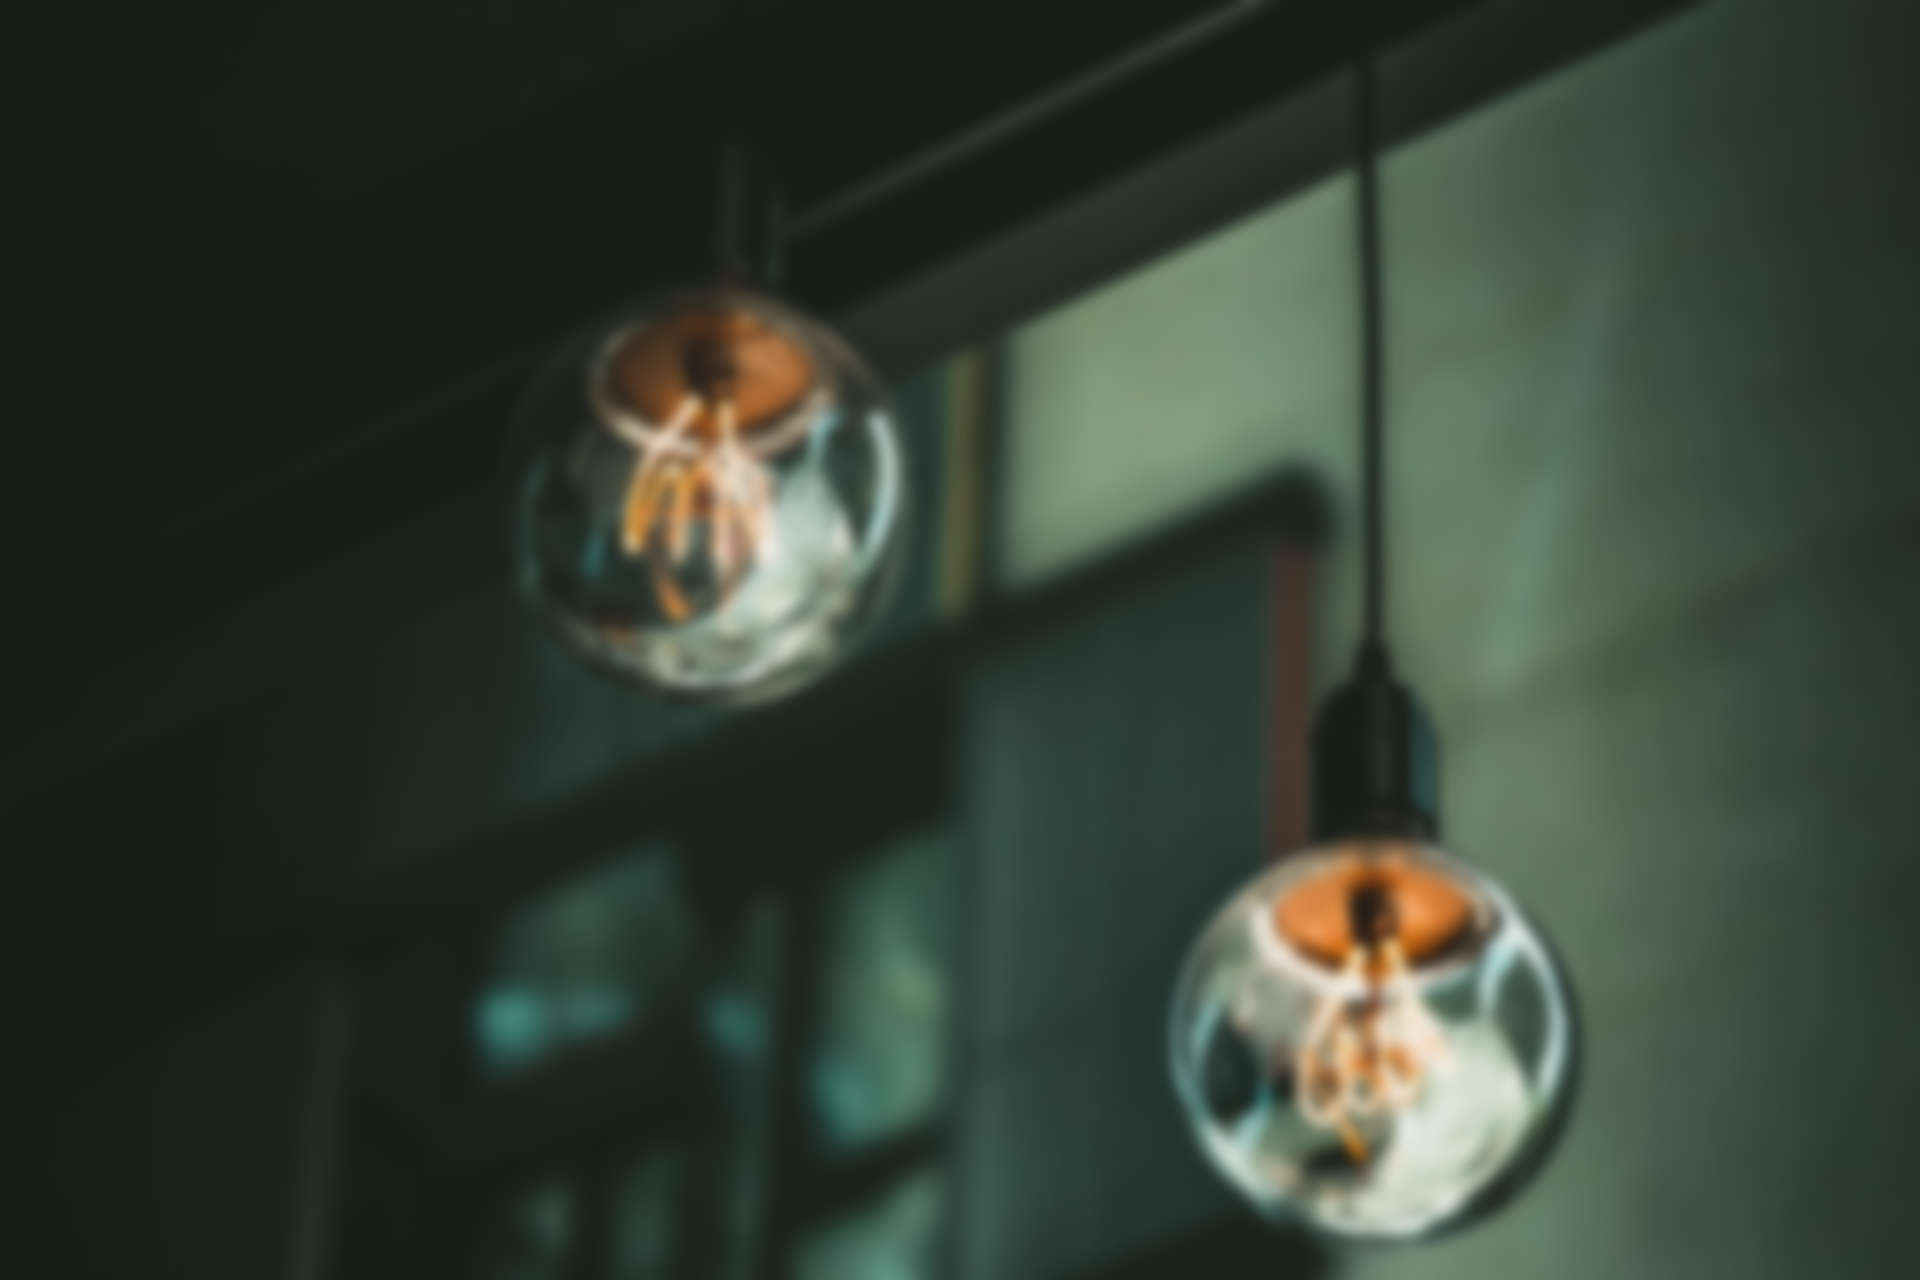
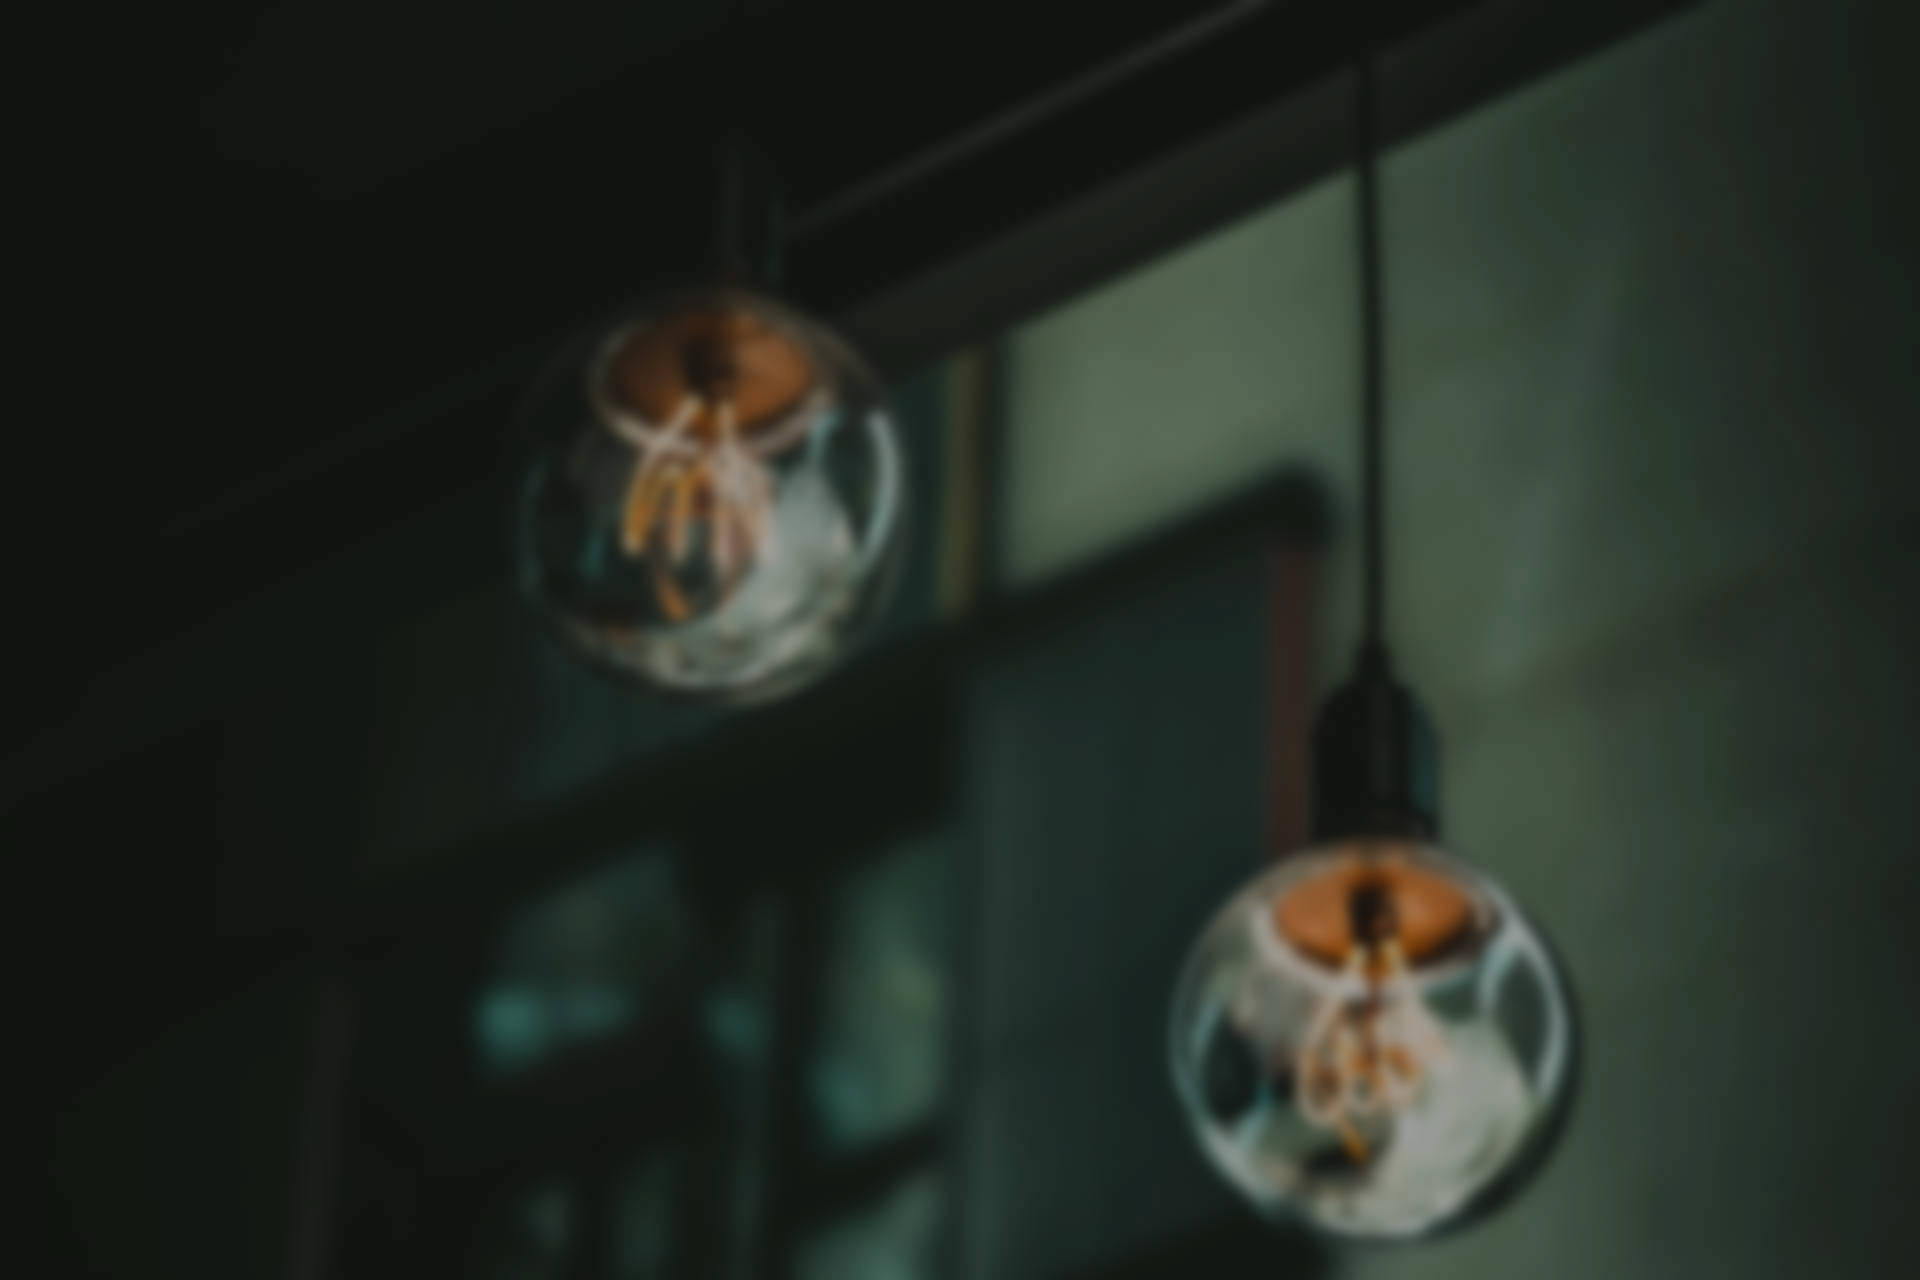
Update darken bg image and decrease trasparency

diff --git a/css/full.css b/css/full.css
@@ -23,7 +23,7 @@ body {
 }
 
 .transparent{
-  background: rgba(255,255,255,0.1);
+  background: rgba(255,255,255,0.2);
 }
 
 a.link {
